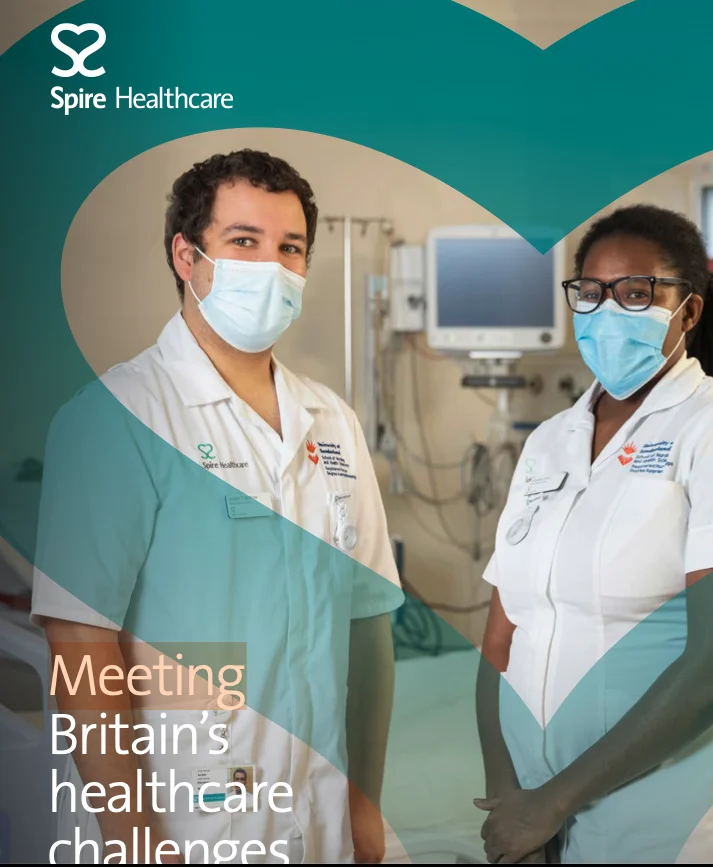
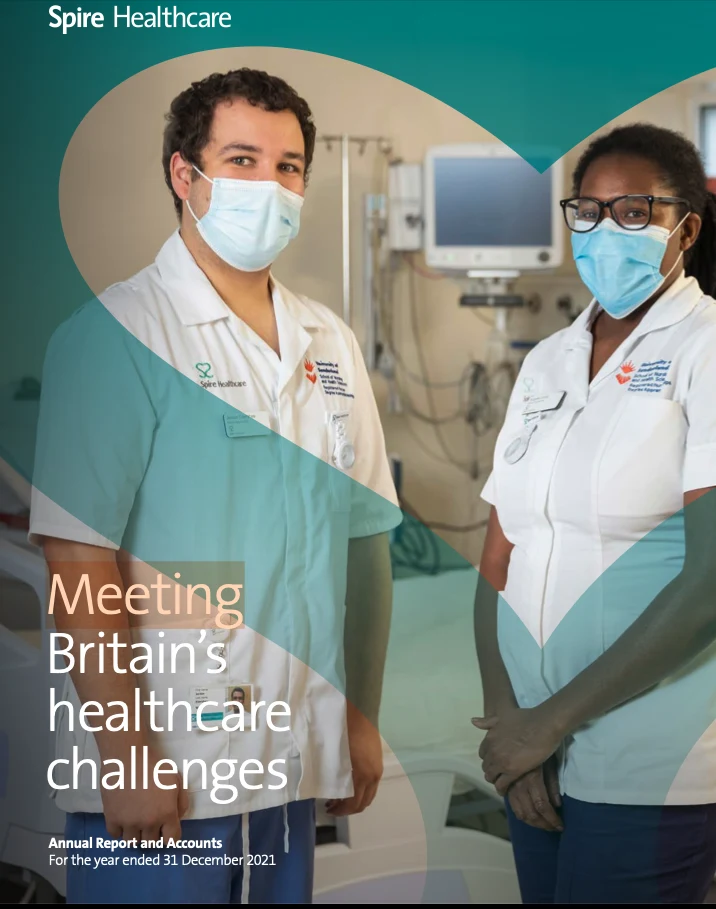
Show full Spire report cover with date
Claude-Session: https://claude.ai/code/session_01Av24U2hFTyjKibeDjvVYHL

diff --git a/src/data/portfolio.ts b/src/data/portfolio.ts
@@ -23,7 +23,8 @@ export interface PortfolioItem {
   category: Category;
   description?: string;
   image?: string;
-  imagePosition?: string; // which part of a tall image to show, e.g. "center top"
+  imagePosition?: string; // which part of an image to show when cropped, e.g. "center top"
+  portrait?: boolean; // show a tall image (like a report cover) in full
   logo?: boolean; // show the whole image (for logos) instead of cropping
   links?: { label: string; url: string }[];
   piece?: string;
@@ -67,7 +68,7 @@ export const portfolio: PortfolioItem[] = [
     client: "Spire Healthcare",
     category: "Campaigns & PR",
     image: "/images/spire-annual-report.webp",
-    imagePosition: "center 28%",
+    portrait: true,
     description:
       "Project management across internal and external resources: approvals, photography and copy editing.",
     links: [{ label: "View the report (PDF)", url: "https://www.investors.spirehealthcare.com/media/cx0nbjuz/full-annual-report-2021.pdf" }],

diff --git a/src/styles/global.css b/src/styles/global.css
@@ -107,3 +107,4 @@ nav a:hover, nav a[aria-current="page"] { border-color: var(--accent); }
 .prose hr { border: 0; border-top: 1px solid var(--line); margin: 2em 0; }
 .prose h3 { margin-top: 1.4em; }
 article.prose p, article.prose li { color: var(--ink); font-size: 1.08rem; line-height: 1.7; }
+.card .thumb.portrait { aspect-ratio: 713 / 907; }
